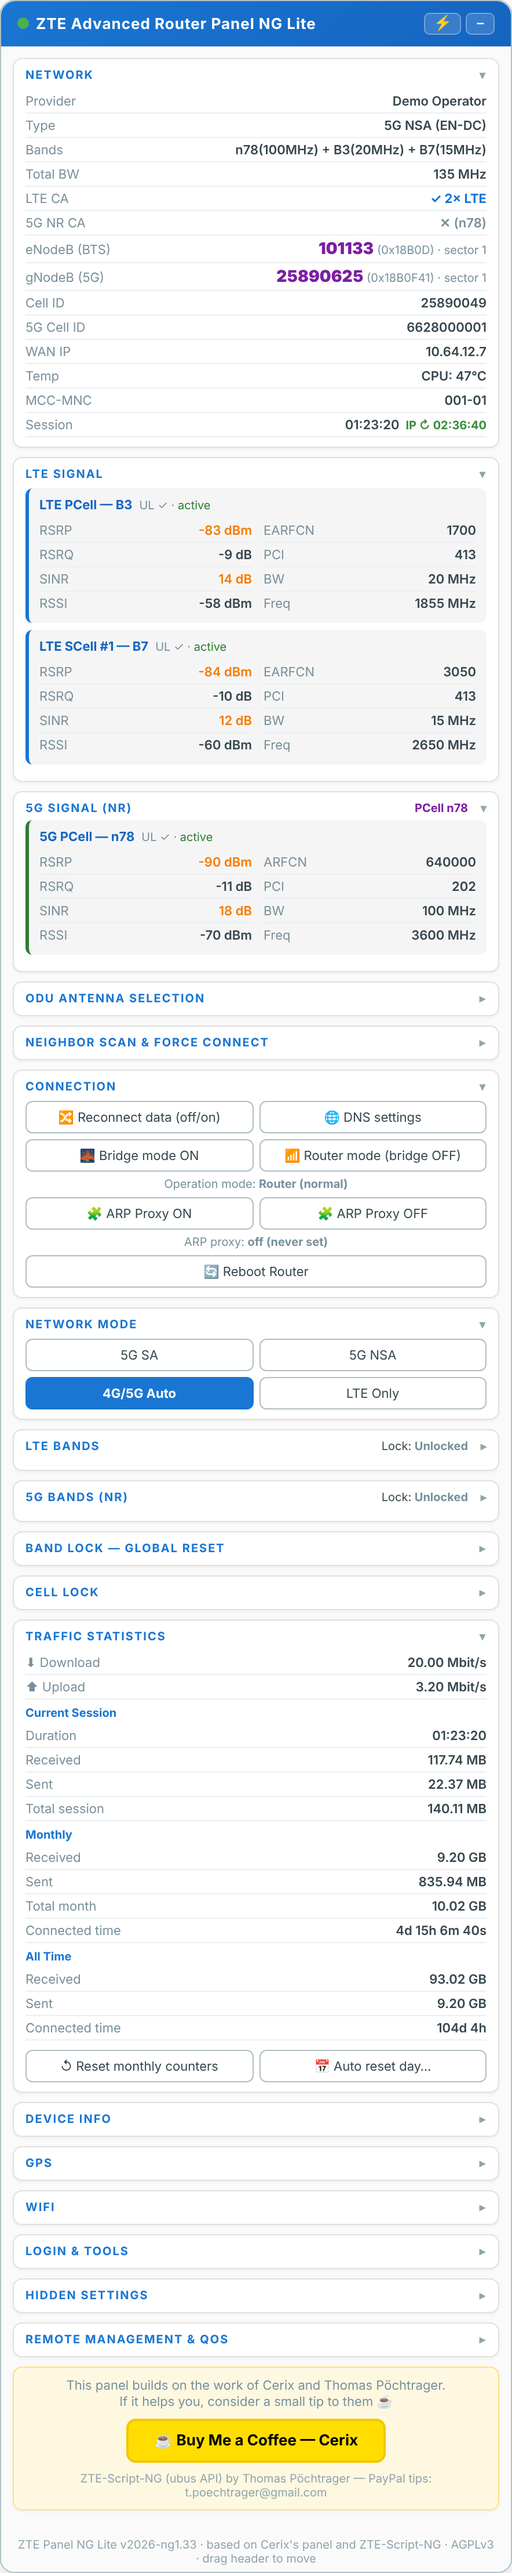
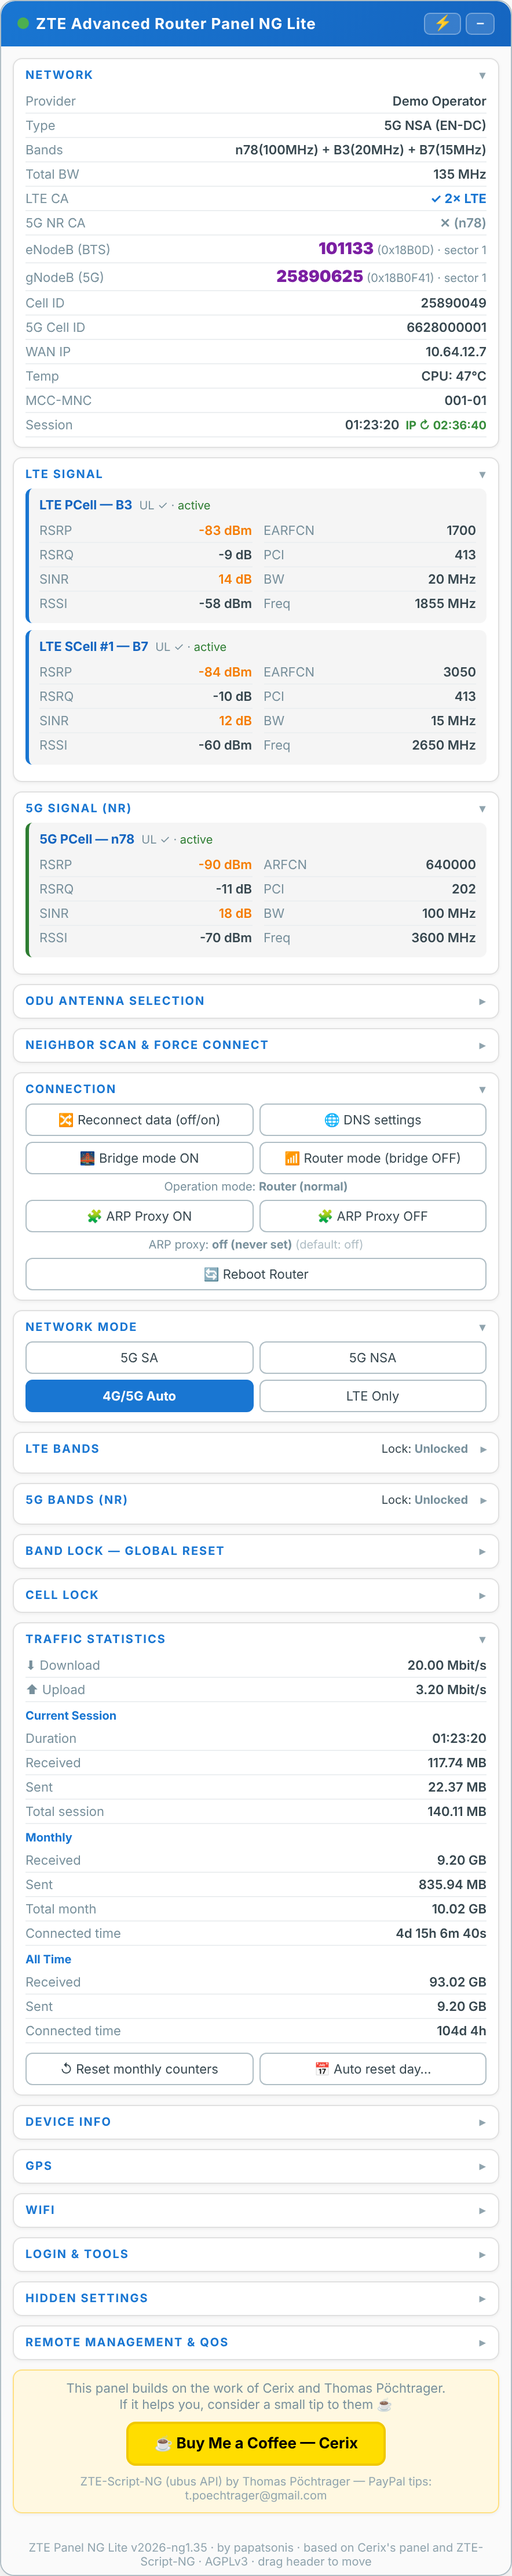
v2026-ng1.35: authorship & credits

diff --git a/zte-advanced-panel-ng-lite.user.js b/zte-advanced-panel-ng-lite.user.js
@@ -1,7 +1,7 @@
 // ==UserScript==
 // @name         ZTE Advanced Router Panel NG Lite (ubus)
 // @namespace    https://github.com/papatsonis/zte-advanced-router-panel-ng
-// @version      2026-ng1.34
+// @version      2026-ng1.35
 // @description  ZTE signal monitor and controls for newer ubus-based routers (MC7520, MC7523/G5TC, MC7530 and later): signal, band lock, cell lock, network mode, ODU antenna selection, neighbor scan, bridge mode, DNS, APN, session timeout, temperature control, traffic stats, GPS, QoS speed cap, TR-069 remote-management toggles, hidden-page unlock, collapsible sections. Lite edition without the developer tools.
 // @author       papatsonis (based on work by Cerix and Thomas Pöchtrager)
 // @license      AGPL-3.0-or-later
@@ -34,6 +34,9 @@
  * Port and modifications: papatsonis, 2026 — https://github.com/papatsonis/zte-advanced-router-panel-ng
  * This is a modified work. It is not maintained or endorsed by the original
  * authors; please do not ask them for support for this version.
+ *
+ * Copyright (C) 2026 papatsonis. Portions (C) Cerix (MIT) and Thomas
+ * Pöchtrager (AGPLv3-or-later); see the third-party notices below.
  *
  * This program is free software: you can redistribute it and/or modify it
  * under the terms of the GNU Affero General Public License as published by
@@ -88,7 +91,7 @@
   //  CONFIGURATION
   // ─────────────────────────────────────────────
   var CFG = {
-    version: "2026-ng1.34",
+    version: "2026-ng1.35",
     bmac: true,
     pollInterval: 1000,
     slowPollEvery: 5, // temperature, CPU/memory and WAN status are read on every 5th poll
@@ -3439,7 +3442,7 @@
           "</div>"
         : "") +
       "</div>" +
-      '<div id="zte_footer">ZTE Panel NG Lite v' + CFG.version + " · based on Cerix's panel and ZTE-Script-NG · AGPLv3 · drag header to move</div>";
+      '<div id="zte_footer">ZTE Panel NG Lite v' + CFG.version + " · by papatsonis · based on Cerix's panel and ZTE-Script-NG · AGPLv3 · drag header to move</div>";
 
     document.body.appendChild(panel);
     make_draggable(panel);

diff --git a/zte-advanced-panel-ng.user.js b/zte-advanced-panel-ng.user.js
@@ -1,7 +1,7 @@
 // ==UserScript==
 // @name         ZTE Advanced Router Panel NG (ubus)
 // @namespace    https://github.com/papatsonis/zte-advanced-router-panel-ng
-// @version      2026-ng1.34
+// @version      2026-ng1.35
 // @description  ZTE signal monitor and controls for newer ubus-based routers (MC7520, MC7523/G5TC, MC7530 and later): signal, band lock, cell lock, network mode, ODU antenna selection, neighbor scan, bridge mode, DNS, APN, session timeout, temperature control, traffic stats, GPS, QoS speed cap, TR-069 remote-management toggles, hidden-page unlock, collapsible sections, plus developer tools.
 // @author       papatsonis (based on work by Cerix and Thomas Pöchtrager)
 // @license      AGPL-3.0-or-later
@@ -31,6 +31,9 @@
  * Port and modifications: papatsonis, 2026 — https://github.com/papatsonis/zte-advanced-router-panel-ng
  * This is a modified work. It is not maintained or endorsed by the original
  * authors; please do not ask them for support for this version.
+ *
+ * Copyright (C) 2026 papatsonis. Portions (C) Cerix (MIT) and Thomas
+ * Pöchtrager (AGPLv3-or-later); see the third-party notices below.
  *
  * This program is free software: you can redistribute it and/or modify it
  * under the terms of the GNU Affero General Public License as published by
@@ -85,7 +88,7 @@
   //  CONFIGURATION
   // ─────────────────────────────────────────────
   var CFG = {
-    version: "2026-ng1.34",
+    version: "2026-ng1.35",
     bmac: true,
     pollInterval: 1000,
     slowPollEvery: 5, // temperature, CPU/memory and WAN status are read on every 5th poll
@@ -3688,7 +3691,7 @@
           "</div>"
         : "") +
       "</div>" +
-      '<div id="zte_footer">ZTE Panel NG v' + CFG.version + " · based on Cerix's panel and ZTE-Script-NG · AGPLv3 · drag header to move</div>";
+      '<div id="zte_footer">ZTE Panel NG v' + CFG.version + " · by papatsonis · based on Cerix's panel and ZTE-Script-NG · AGPLv3 · drag header to move</div>";
 
     document.body.appendChild(panel);
     make_draggable(panel);

diff --git a/README.md b/README.md
@@ -2,7 +2,7 @@
 
 A floating control panel for **newer ZTE 4G/5G routers** — the ones whose web interface talks to the router through the ubus JSON-RPC API (ZTE MC7520, MC7523/G5TC, MC7530 and later). It is a userscript: it runs inside the router's own web page and adds signal details, band and cell locking, a neighbor scan, bridge mode, DNS, traffic statistics and more.
 
-This is a port of [ZTE Advanced Router Panel](https://github.com/Cerix/zte-advanced-router-panel) by **Cerix** to the newer router API, built on the API calls of [ZTE-Script-NG](https://github.com/tpoechtrager/ZTE-Web-Script) by **Thomas Pöchtrager**. See [Credits](#credits).
+This brings the [ZTE Advanced Router Panel](https://github.com/Cerix/zte-advanced-router-panel) design by **Cerix** to the newer **ubus** routers, built on the ubus foundation of [ZTE-Script-NG](https://github.com/tpoechtrager/ZTE-Web-Script) by **Thomas Pöchtrager**, and adds a large set of controls on top. Ported and extended by **[papatsonis](https://github.com/papatsonis)** — see [What this fork adds](#what-this-fork-adds) and [Credits](#credits).
 
 > **Older routers (MC888, MC889, MC7010 …)** use a different API. For those, use [Cerix's original panel](https://github.com/Cerix/zte-advanced-router-panel) or the [legacy ZTE-Script](https://github.com/tpoechtrager/ZTE-Web-Script).
 
@@ -106,10 +106,47 @@ python3 tools/build_lite.py
 
 The build stops with an error if the full script has changed in a way it does not expect, rather than producing a broken Lite edition.
 
+## What this fork adds
+
+This fork brings together **Cerix's panel** (designed for ZTE's older routers) and the **ubus foundation of ZTE-Script-NG** (a monitoring-and-locking panel for the newer G5TC-and-later models), then extends it with a large set of **control** features — tested across the MC7530, MC8532B and G5TC.
+
+From ZTE-Script-NG it inherits the ubus groundwork: signal monitoring, band and cell locking, network-mode switching, traffic statistics, device info, WiFi and login handling.
+
+On top of that, this fork adds the following — all capability-gated, so a control appears only if the router answers for it:
+
+- **Connection controls** — reconnect mobile data, DNS settings, bridge mode on/off, reboot.
+- **ARP proxy** on/off.
+- **Neighbor scan & force connect** — run the router's scan and lock to any cell it finds.
+- **APN** — view and switch profile.
+- **ODU antenna selection** — option names read from the router's own developer page.
+- **GPS / GNSS** — including models that lack the `zwrt_gnss` service.
+- **Session timeout** and **temperature control**.
+- **Band lists read from the router**, so only bands your model supports are offered.
+- **QoS** — a global speed cap with the router's own priority profiles, read live.
+- **TR-069 (ACS)** — CWMP and Periodic Inform toggles, without the panel ever handling the ACS password.
+- **Hidden menus & pages** — reveals, and can open, pages the firmware hides (TR-069 config, Developer options).
+- **Collapsible sections**, remembered per router.
+- **Two editions** — Lite (everyday) and Full (adds API-exploration tools), with Lite generated from Full by a build script.
+
+### Version history
+
+- **1.35** — credits and authorship (this section, header and footer).
+- **1.34** — removed a redundant 5G carrier badge; ARP proxy shows its default.
+- **1.33** — collapsible sections, remembered per router.
+- **1.32** — QoS speed cap, TR-069 (CWMP + Periodic Inform) toggles, opening firmware-hidden pages.
+- **1.31** — band buttons driven by the router's supported-band list, with a "Supported bands" line.
+- **1.30** — GPS on models without `zwrt_gnss` (e.g. G5TC); band lists read from the router.
+- **1.29** — reliable detection of a lost session on firmware that answers some calls without login.
+- **1.28** — ODU antenna selection; GPS presence; session timeout; temperature control.
+- **1.27** — ARP proxy on/off; hidden menus and hidden pages.
+- **1.25** — fixed the logout right after login; safer auto-login.
+- **1.21** — first public release on GitHub. Development began earlier at 1.0; pre-1.21 builds were private. At 1.21 the fork already had signal, band/cell lock, network mode, neighbor scan, bridge mode, DNS, APN, traffic stats, GPS, WiFi, auto-login, and the developer tools.
+
 ## Credits
 
 This panel exists because of other people's work:
 
+- **[papatsonis](https://github.com/papatsonis)** — this fork: the port to the ubus JSON-RPC API and the features in [What this fork adds](#what-this-fork-adds). Built on the work below; not maintained or endorsed by those authors.
 - **[Cerix](https://github.com/Cerix/zte-advanced-router-panel)** — *ZTE Advanced Router Panel* (MIT). The panel's design, layout and feature set come from it. Tips: [buymeacoffee.com/cerix](https://buymeacoffee.com/cerix)
 - **[Thomas Pöchtrager](https://github.com/tpoechtrager/ZTE-Web-Script)** — *ZTE-Script-NG* (AGPLv3+). The ubus calls, login flow, signal parsing and frequency tables come from it. Tips: PayPal `t.poechtrager@gmail.com`
 - **[open-u60-pro](https://github.com/jesther-ai/open-u60-pro)** by Jesther Silvestre and **[zte-u60-pro-mu5250-manager](https://github.com/faying/zte-u60-pro-mu5250-manager)** by faying (both MIT) — their research on the ZTE U60 Pro showed which ubus calls exist for the neighbor scan, mobile data on/off, DNS, APN, ARP proxy and resetting locks. Only the call and parameter names were used; no code from them is included.
